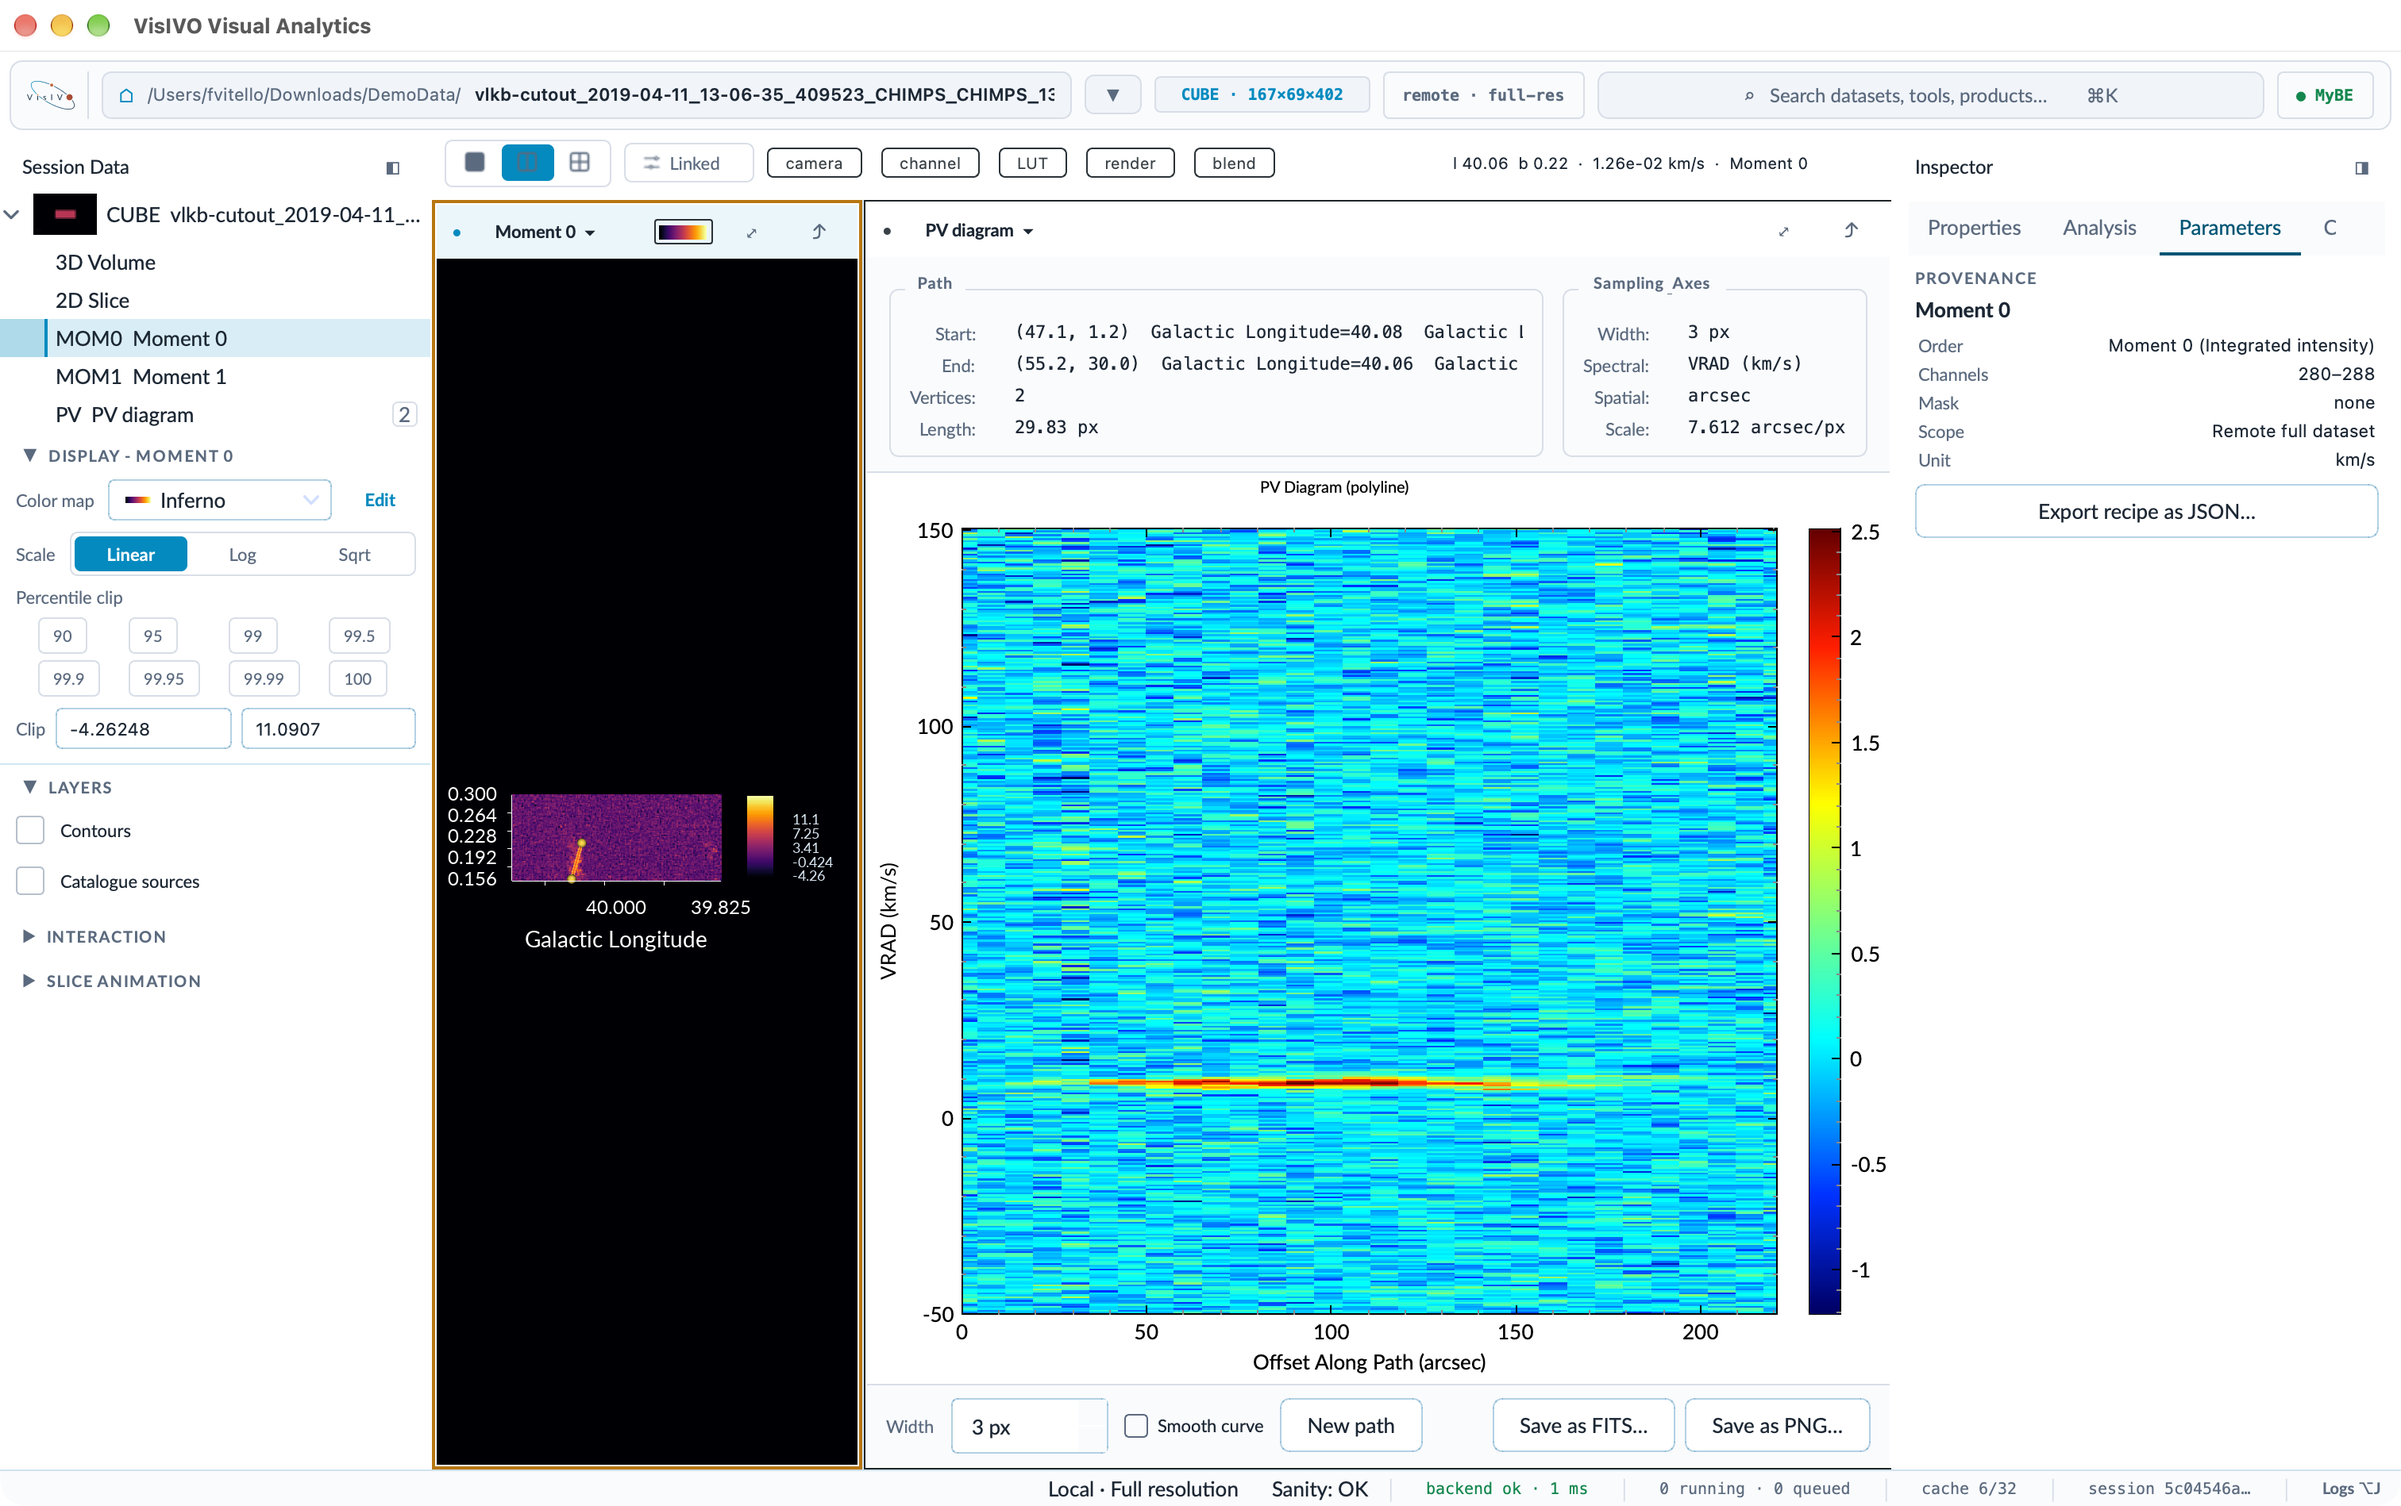
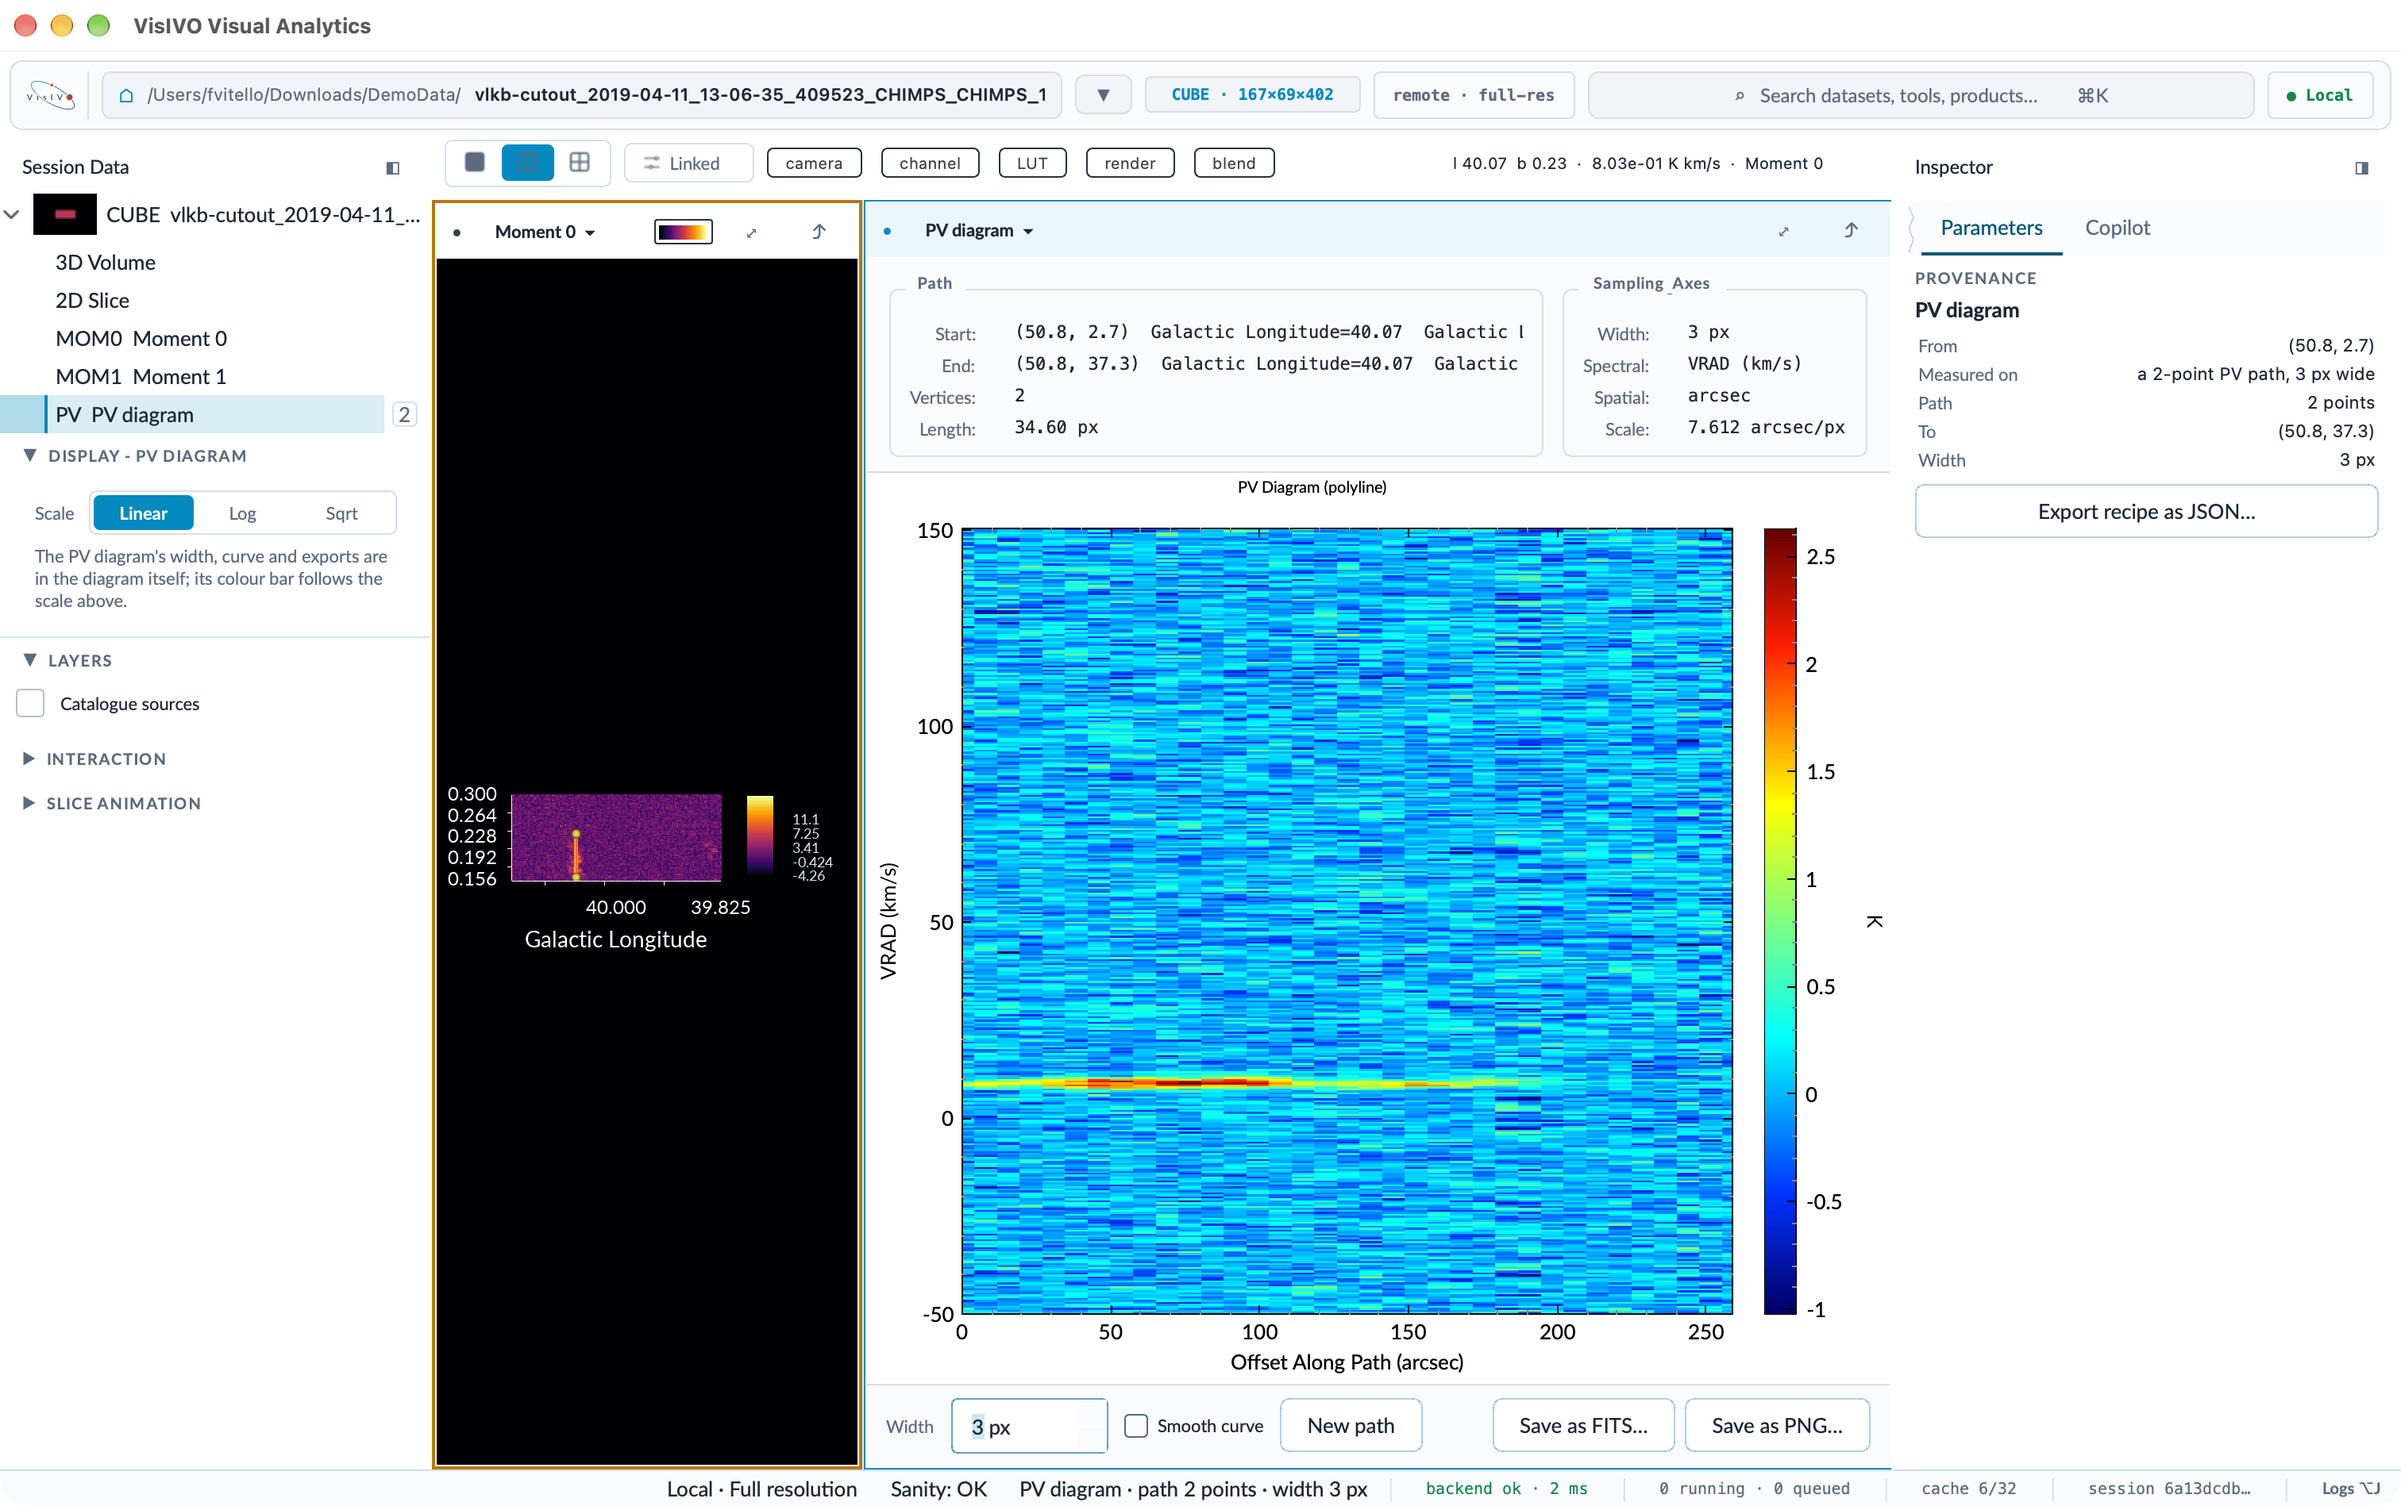
Docs: use case 13 fit numbers, visible-range fit, LTE tool, units and screenshots 1 to 4

diff --git a/docs/user/use-cases/13-molecular-cloud.md b/docs/user/use-cases/13-molecular-cloud.md
@@ -35,12 +35,19 @@ turn their ratio into an optical depth.
 
 2. In the main window's *VLKB* tab, set *glon* 40.0, *glat* 0.228, *dl*
    0.352, *db* 0.144 and press *Query*. Double-click the C¹⁸O 3-2 row whose
-   *Identifier* ends in `CHIMPS_C18O_40p00+0p33` (*Coverage* `full`). It opens
-   in its own cube window, 69 × 166 pixels and 400 channels. This tile stores
+   *Identifier* ends in `CHIMPS_C18O_40p00+0p33` (*Coverage* `full`; the filter
+   box takes `CHIMPS`). The backend downloads the cutout and it opens in its
+   own cube window as `d1eaf07408f20949__sync.fits`, 69 × 166 pixels and 400
+   channels. This tile stores
    latitude along x, so its map looks turned by 90°; regions read from a file
    still land on the same sky. Its channels sit 0.25 km/s off the ¹³CO ones.
 
-   <!-- Screenshot pending (see SHOTLIST.md): img/13-molecular-cloud-1.png -->
+   ```{figure} img/13-molecular-cloud-1.png
+   :alt: The VLKB Inventory window filtered on CHIMPS: the C18O 3-2 row CHIMPS_C18O_40p00+0p33.fits is selected and marked full, the 13CO row of the same tile is marked full, and the 40p33 rows are marked partial.
+   :width: 100%
+
+   The CHIMPS rows for the query region.
+   ```
 
 3. In each window, *Tools ▸ Statistics ▸ Estimate Noise...* on all channels of
    a line-free box (*X (columns)* 100 → 160, *Y (rows)* 35 → 65 on ¹³CO;
@@ -60,7 +67,12 @@ turn their ratio into an optical depth.
 
 6. In the C¹⁸O window compute Moment 0 over 129 → 138 (85.75 to 81.25 km/s).
 
-   <!-- Screenshot pending (see SHOTLIST.md): img/13-molecular-cloud-2.png -->
+   ```{figure} img/13-molecular-cloud-2.png
+   :alt: The 13CO cube window with two panes: the Moment 0 map of the clump on the left and the Moment 1 map on the right, with both moment products listed in Session Data.
+   :width: 100%
+
+   Moment 0 and Moment 1 of the clump in ¹³CO.
+   ```
 
 ### A PV cut along the filament
 
@@ -70,7 +82,12 @@ turn their ratio into an optical depth.
    at the bottom edge and again at b ≈ 0.22°, then double-click. Set *Width*
    to 3.
 
-   <!-- Screenshot pending (see SHOTLIST.md): img/13-molecular-cloud-3.png -->
+   ```{figure} img/13-molecular-cloud-3.png
+   :alt: The 13CO cube window with a Moment 0 map of the filament and its two-point path on the left, and the resulting PV diagram on the right.
+   :width: 100%
+
+   The PV cut along the filament, width 3.
+   ```
 
 ### Spectra at the same position
 
@@ -79,10 +96,18 @@ turn their ratio into an optical depth.
 
 9. Click the clump's Moment 0 pane, right-click the *Clump* row in *Session
    Data* and choose *Analyse*. *Inspector ▸ Parameters* shows the map's *Mean*
-   in the circle, and the mean spectrum opens in a pane. Press *Fit Gaussian*
-   above it. Repeat in the C¹⁸O window.
+   in the circle, and the mean spectrum opens in a pane. In *Inspector ▸
+   Analysis*, zoom the spectrum onto the line with the mouse wheel (70 to
+   95 km/s) and press *Fit Gaussian*. The *Fit* menu above the button says
+   which channels the fit sees: *Fit visible range* (the default), *Fit typed
+   range…* or *Fit whole spectrum*. Repeat in the C¹⁸O window.
 
-   <!-- Screenshot pending (see SHOTLIST.md): img/13-molecular-cloud-4.png -->
+   ```{figure} img/13-molecular-cloud-4.png
+   :alt: The C18O cube window with two panes: the Moment 0 map with the Clump and Filament circles on the left, and the Clump spectrum with the fitted Gaussian and its peak, centre, FWHM and integral on the right.
+   :width: 100%
+
+   The C¹⁸O clump spectrum with its Gaussian fit.
+   ```
 
 ### From the line ratio to the optical depth
 
@@ -92,7 +117,8 @@ X = [¹³CO]/[C¹⁸O] = (¹⁶O/¹⁸O)/(¹²C/¹³C). Inside the solar circle 
 sightline stays between R₀ sin l ≈ 5.5 kpc and R₀ = 8.5 kpc from the Galactic
 centre, where the gradients of Wilson & Rood (1994) give X = 7.4 to 7.5. The
 T_A* scale cancels in R, since one efficiency applies to two lines 1.3 GHz
-apart. The app does not solve for τ; do it by hand.
+apart. The fit does not solve for τ; do it by hand, or use *Tools ▸ Spectral ▸
+CO Isotopologues (LTE)…* (next section).
 
 ## What you get
 
@@ -100,13 +126,13 @@ apart. The app does not solve for τ; do it by hand.
 |---|---|---|
 | Moment 0 *Mean* (K km/s, T_A*), pixels | 5.04, 28 | 1.15, 29 |
 | Moment 1 / Moment 2 *Mean*, masked (km/s) | 84.01 / 0.59 | |
-| Fit: peak (K) | 1.68 ± 0.08 | 0.61 ± 0.10 |
-| Fit: centre (km/s) | 83.90 ± 0.06 | 84.11 ± 0.14 |
-| Fit: FWHM (km/s) | 2.59 ± 0.14 | 1.75 ± 0.32 |
-| Fit: ∫ (K km/s) | 4.63 ± 0.21 | 1.14 ± 0.18 |
+| Fit: peak (K) | 1.95 ± 0.08 | 0.62 ± 0.10 |
+| Fit: centre (km/s) | 83.93 ± 0.04 | 83.98 ± 0.15 |
+| Fit: FWHM (km/s) | 2.31 ± 0.11 | 1.86 ± 0.35 |
+| Fit: ∫ (K km/s) | 4.79 ± 0.21 | 1.22 ± 0.21 |
 
-The fit integrals give R = 4.06 ± 0.68, hence τ(C¹⁸O) = 0.22 (0.16 to 0.31)
-and τ(¹³CO) = 1.6 (1.2 to 2.3) for X = 7.4. The Moment 0 means give
+Fits on 70 to 95 km/s. The fit integrals give R = 3.9 ± 0.7, hence
+τ(¹³CO) = 1.75 (1.2 to 2.5) and τ(C¹⁸O) = 0.24 for X = 7.4. The Moment 0 means give
 R = 4.4 ± 1.4 (error from the channel σ, 10 channels and a 15″ beam of 4.4
 pixels). The broader ¹³CO line fits an optically thick ¹³CO. Moment 0 equals
 the channel sum times 0.5 km/s computed with numpy, to 3 × 10⁻⁷ K km/s.
@@ -116,12 +142,24 @@ peaks at 2.3 K. On the diagram saved as FITS its centroid stays between 8.8
 and 9.4 km/s up to 190″, then reaches 9.7 km/s where it fades. C¹⁸O does not
 detect the filament (Moment 0 mean 0.74 K km/s, about 2σ).
 
+## The LTE tool
+
+*Tools ▸ Spectral ▸ CO Isotopologues (LTE)…* (also in *Inspector ▸
+Analysis*) does the same sum map-wide. Run it from the ¹³CO window: pick the
+C¹⁸O cutout, leave the velocity window at 70 to 95 km/s (taken from the
+spectrum's fit range), set η_mb to 0.72 for both lines (CHIMPS, Rigby et al.
+2016) and X(¹³CO)/X(C¹⁸O) to 7.4. For the clump it reports W_mb of 8.52 ± 0.5
+and 1.73 ± 0.52 K km/s, R = 4.92 ± 1.5 and τ(¹³CO) = 1.04 (0.33 to 2.25). These
+are not the hand numbers above: it sums the channels of the window on the
+T_mb scale instead of fitting a Gaussian, and takes T_ex from the ¹³CO
+peak. The filament gives no detection.
+
 ## Caveats
 
 - Divide T_A* by η_mb = 0.72 for main-beam temperature (Rigby et al. 2016);
   `ETAL = 0.85` in the header is another efficiency.
-- With no `BUNIT` the app labels Moment 0 *km/s* and writes that unit into
-  the exported FITS. Read it as K km/s.
+- With no `BUNIT` the app reads the intensities as K from `TEMPSCAL` and
+  labels Moment 0 *K km/s* (*Unit* in *Inspector ▸ Parameters*).
 - The masked Moment 2 (0.59 km/s) is below the fitted σ (1.10 km/s) because
   the 3σ mask drops the line wings. Take widths from the fit.
 - *Fit Gaussian* fits the whole 200 km/s spectrum; on the filament in C¹⁸O it

diff --git a/docs/user/use-cases/SHOTLIST.md b/docs/user/use-cases/SHOTLIST.md
@@ -140,4 +140,4 @@ Local backend with network access. Before the shots, save the `chimps_g40.reg` f
 | `13-molecular-cloud-1.png` | Main window, 1600 × 1000, *VLKB* tab after *Query* with *glon* 40.0, *glat* 0.228, *dl* 0.352, *db* 0.144, the line under the fields reading `RANGE 39.824000 40.176000 0.156000 0.300000`. Filter box `CHIMPS`, so only the five CHIMPS rows show; the C¹⁸O 3-2 row whose *Identifier* ends in `CHIMPS_C18O_40p00+0p33` selected, its *Coverage* `full` in green, the two C¹⁸O `40p33+0p33` rows `partial`. |
 | `13-molecular-cloud-2.png` | ¹³CO cube window, 1600 × 1000, *Two panes*: left *Moment 0* over channels 130 to 139 (mask off) with the clump bright near the lower-left corner; right *Moment 1* over the same channels with the auto mask, diverging colour map, the clump at about 84 km/s. *Session Data* lists both moment rows; the status bar names the order, the unit and the channel range. |
 | `13-molecular-cloud-3.png` | Same window: left *Moment 0* over channels 280 to 288 with *Extract PV Diagram* armed and its two-vertex path along the filament at l ≈ 40.07°, from the bottom edge of the map to b ≈ 0.22°; right the PV diagram with *Width* 3, the filament a horizontal ridge at about 9 km/s from about 30″ to 220″ along the offset axis. |
-| `13-molecular-cloud-4.png` | C¹⁸O cube window (the `CHIMPS_C18O_40p00+0p33` cutout), 1600 × 1000, *Two panes*: left *Moment 0* over channels 129 to 138, turned by 90° against the ¹³CO map, with the imported *Clump* and *Filament* circles and their labels, *Clump* selected; right the *Clump spectrum* after *Fit Gaussian*, the fitted curve on the line at 84 km/s and the label *Gaussian fit · peak 0.61… · centre 84.1… · FWHM 1.75… · ∫ 1.14…*. *Session Data* with `chimps_g40.reg (2)` expanded and the *Clump spectrum* row; Inspector on *Parameters* reading *2D stats from: Moment 0 (pane 1)*, *Valid pixels 29 / 29*, *Mean* about 1.145. |
+| `13-molecular-cloud-4.png` | C¹⁸O cube window (the `CHIMPS_C18O_40p00+0p33` cutout), 1600 × 1000, *Two panes*: left *Moment 0* over channels 129 to 138, turned by 90° against the ¹³CO map, with the imported *Clump* and *Filament* circles and their labels, *Clump* selected; right the *Clump spectrum* after *Fit Gaussian*, the fitted curve on the line at 84 km/s and the label *Gaussian fit · peak 0.61… · centre 83.98… · FWHM 1.86… · ∫ 1.22…*. *Session Data* with `chimps_g40.reg (2)` expanded and the *Clump spectrum* row; Inspector on *Parameters* reading *2D stats from: Moment 0 (pane 1)*, *Valid pixels 29 / 29*, *Mean* about 1.15. |
